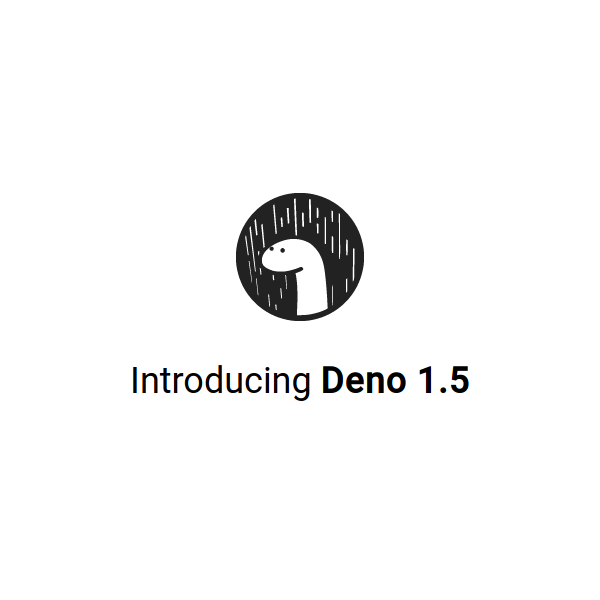
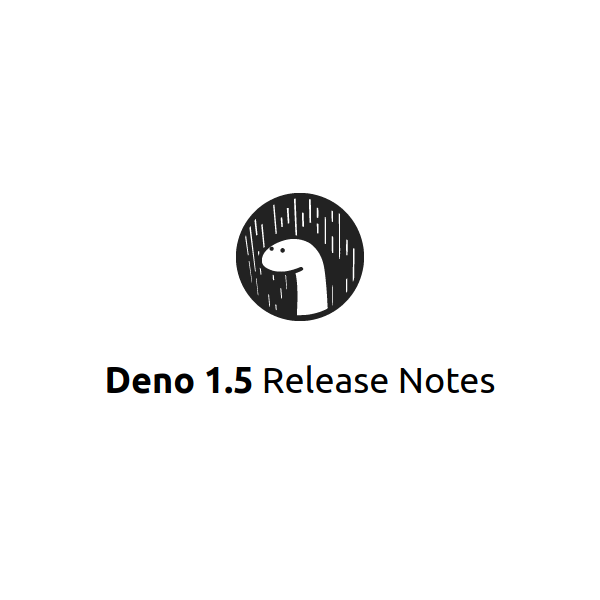
chore: update 1.5 og meta image (#1583)

Changed region(s): [[0.18, 0.6, 0.84, 0.69]]

diff --git a/public/posts/v1.5.md b/public/posts/v1.5.md
@@ -199,3 +199,5 @@ have been added to `std/testing/asserts.ts`:
 
 The full release notes, including bug fixes, can be found at
 https://github.com/denoland/deno/releases/tag/v1.5.0.
+
+[HN Comments](https://news.ycombinator.com/item?id=24908458)
